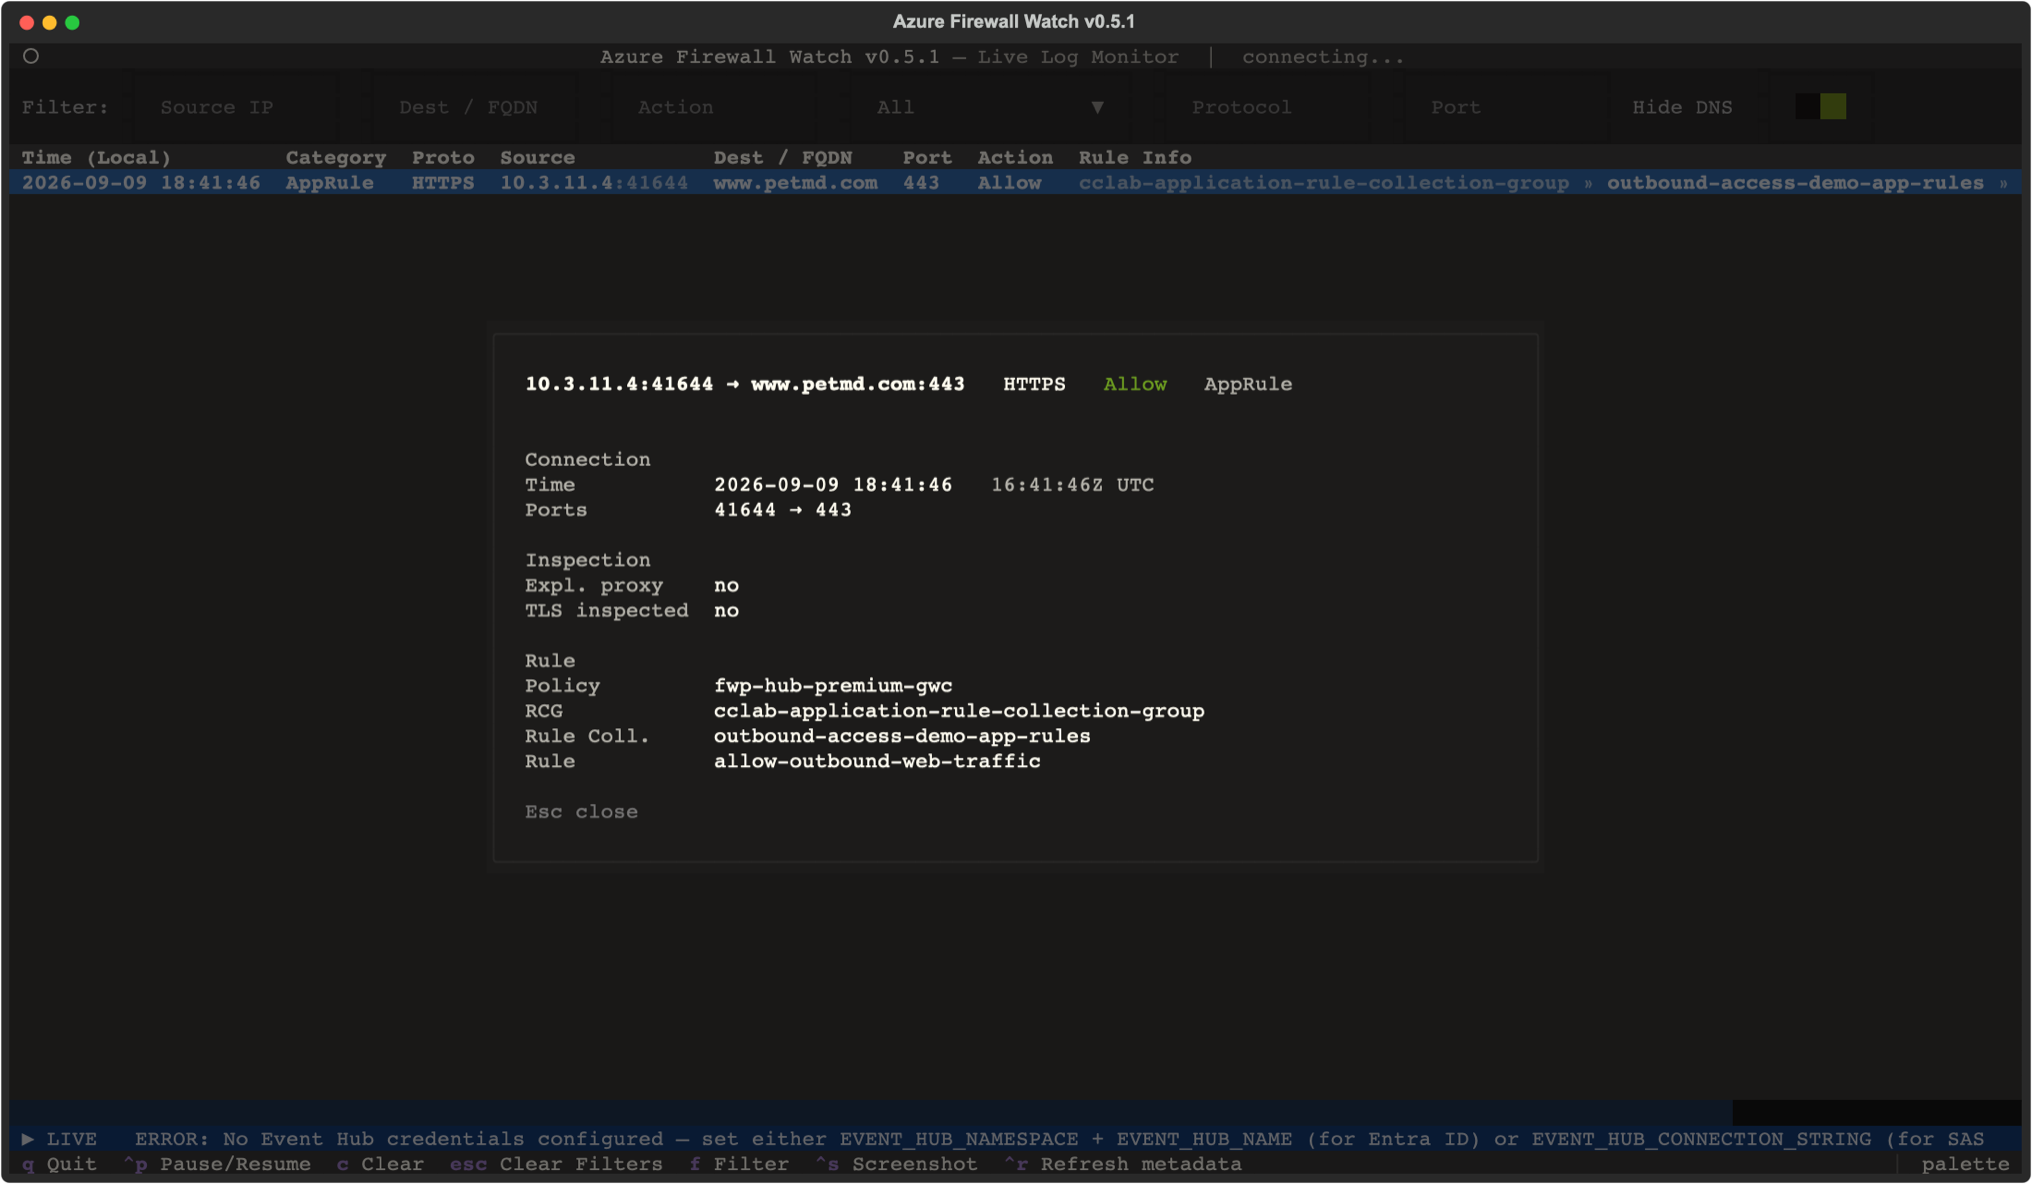
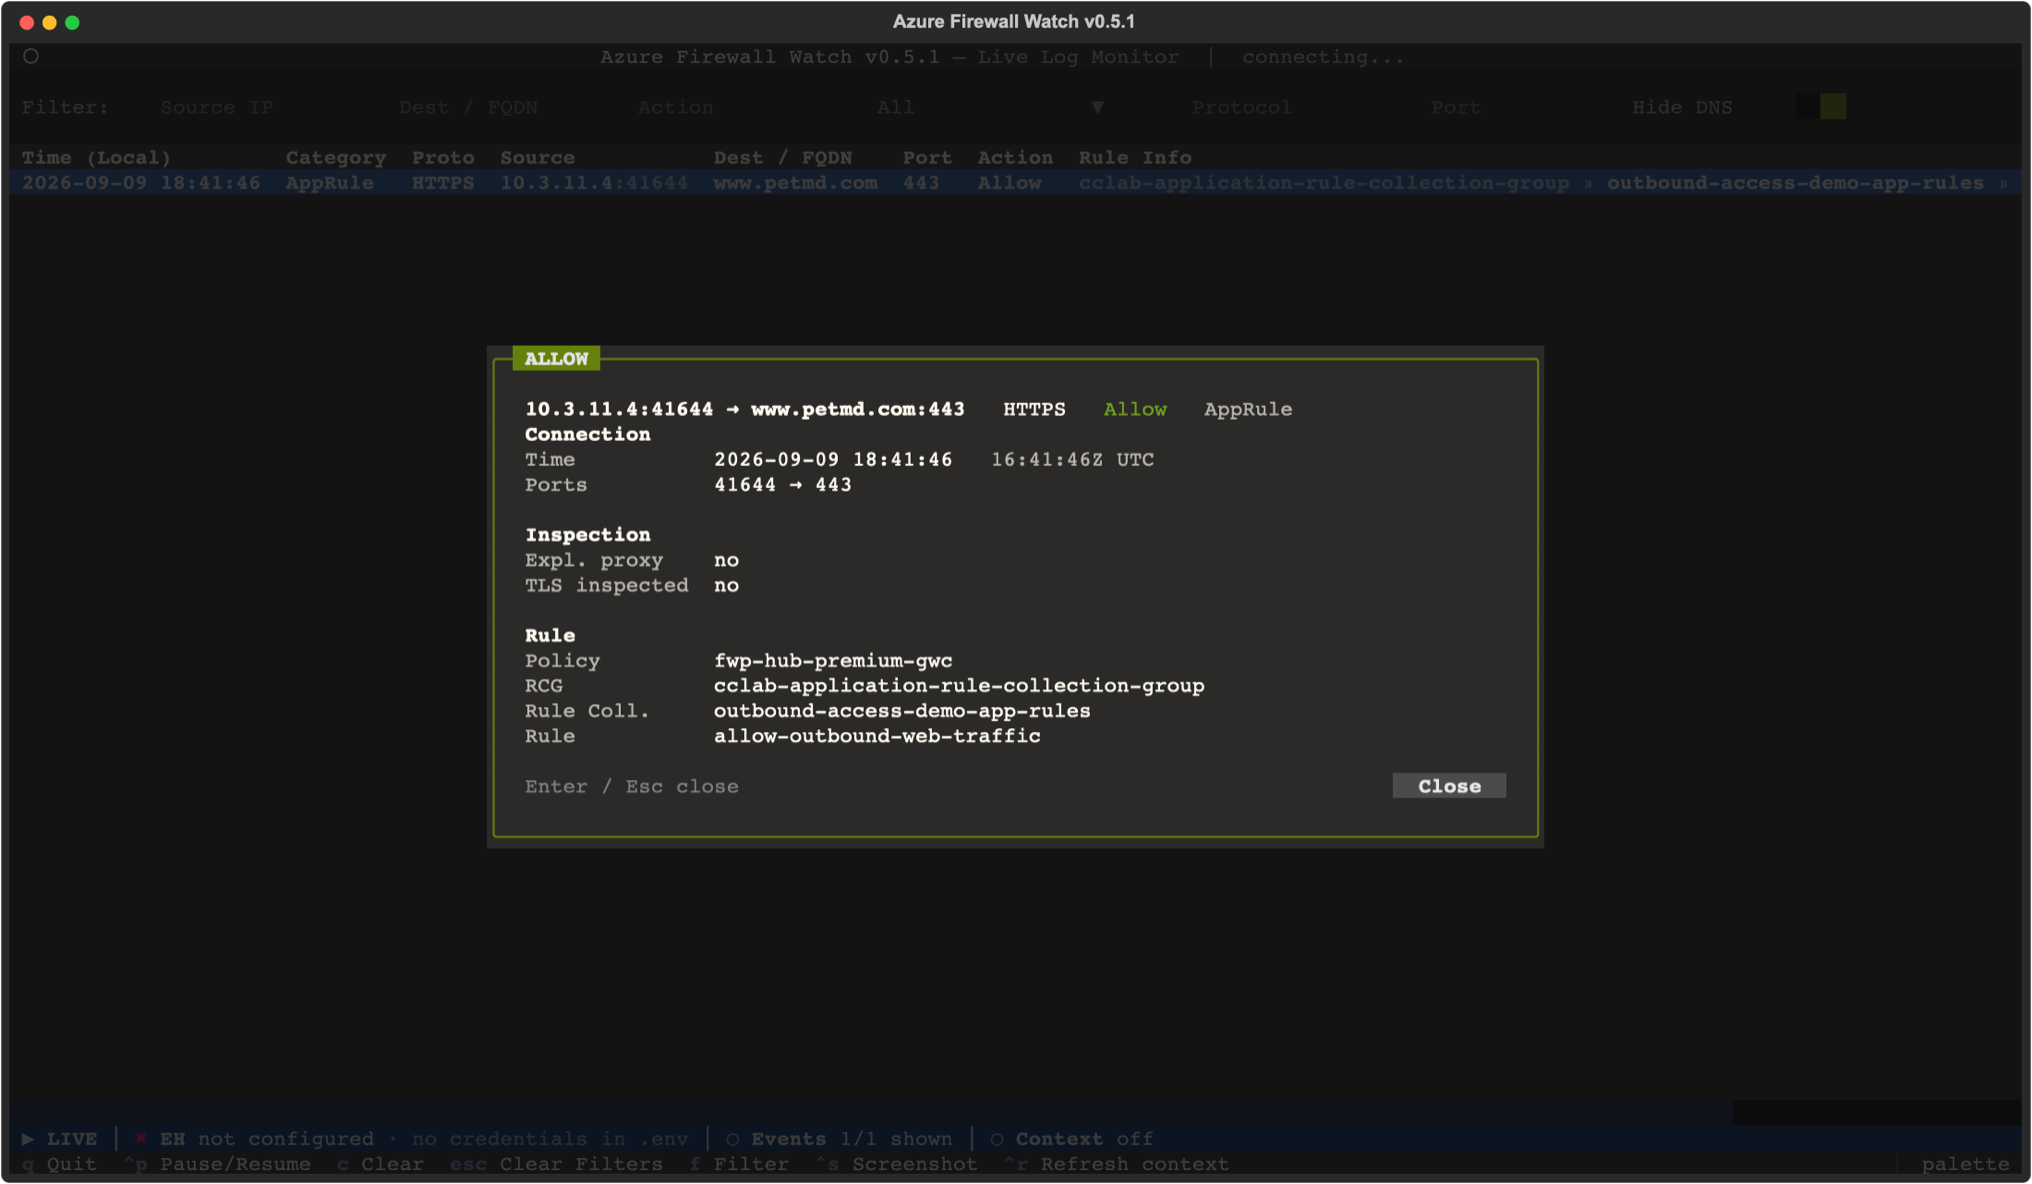
docs(dialog): verdict frame, Close button and Enter in the key tables

diff --git a/CHANGELOG.md b/CHANGELOG.md
@@ -32,7 +32,8 @@ and this project adheres to [Semantic Versioning](https://semver.org/spec/v2.0.0
 - **Hints moved out of the bar.** One-off messages (*Nothing to refresh yet*, *Policy context is off*, a failed refresh, connection error texts) are notifications now, and the last Event Hub error is the bar's tooltip. Before, such a hint overwrote the context segment and stayed there until the next re-fetch. The reason for a missing trace sits in the dialog, see *Fixed*.
 - **One word for the ARM data: policy context.** `Ctrl` + `R` is *Refresh context* (was *Refresh metadata*), the status bar's segment is *Context*, and the dialog's note says *policy context* where it said *firewall metadata*. Same key, same behaviour; *metadata* is gone as a word the user reads.
 - **The row detail dialog was rebuilt around the logged rule.** It used to be two things glued together: every field of the record on the left, and on the right a tree in which every line had the same weight, every collection carried a `nearest miss` suffix, and the rule the firewall actually logged sat somewhere in the middle. Now the header says what happened (connection, protocol and logged action; with policy context a second line with the trace's outcome and the cache age), the fields sit in groups (*Connection*, *Inspection*, *Groups*, *Rule*) with local and UTC time on one line, and the tree opens focused: the logged rule selected and in view, the collections rejected before it folded into `n preceding collections   all ✗`, the ones never reached into `n not evaluated`, and a `?` anywhere inside a fold keeps that fold open. Tree lines are status, priority and name; the criteria moved to a detail under the tree that follows the selection and shows every check with the observed value and the rule's expectation, whole names included. Header values of an inserting rule stay in the Policy tab. The dialog works the same without policy context: then it is the fields, the reason there is no trace, and `Esc close`.
-- **Keys in the dialog.** `Enter` folds and unfolds a node and nothing else; it used to open the Policy tab from an unfolded rule, which made the second press a surprise. `p` opens the selected rule in the Policy tab, `a` toggles between the focused and the full tree, `Shift` + `↑` / `↓` scroll the selection detail under the tree without leaving it, `Esc` and `q` close. The Close button is gone; the footer lists the keys that apply.
+- **Keys in the dialog.** `Enter` folds and unfolds a node and nothing else; it used to open the Policy tab from an unfolded rule, which made the second press a surprise. `p` opens the selected rule in the Policy tab, `a` toggles between the focused and the full tree, `Shift` + `↑` / `↓` scroll the selection detail under the tree without leaving it, `Esc` and `q` close, and so does `Enter` on a row without a trace, where it had nothing else to do. The footer lists the keys that apply and keeps a compact Close button for the mouse; it never takes the focus.
+- **The frame carries the verdict.** The dialog's border is green, red or yellow for the logged allow, deny or dnat, with the action and the rule in its title tab (`ALLOW · allow-web`), so the outcome is read before a single line inside. The header's second line then says where the rule sits (`✓ matched in group » collection`) rather than repeating the name. Fields, tree and selection detail sit in titled frames (*Fields*, *Policy evaluation*, *Selection*); the selection frame keeps one height per trace instead of growing and shrinking with the cursor, and on short terminals the frames fold to their top rule. The log table stays visible behind the dialog, one step further back.
 - **Small terminals.** Below 120 columns the fields and the trace become two tabs inside the dialog (*Fields* / *Policy trace*, `Tab` switches, the trace tab opens first); below 40 rows the selection detail gives its rows to the tree, below 30 it keeps only its name lines. The header's outcome line is measured against the dialog's width: when it would wrap it drops the group and collection, then the cache age, and keeps the rule name. The tree keeps its selected line in view through every layout change, and every pane scrolls on its own. At 80×24 the trace was unusable before and is readable now; the screenshots in the PR show all three sizes in both modes.
 - **The Firewall tab reads as columns.** Every row of the Instance and Policy blocks used to trail its detail three spaces behind the value, so the details started wherever the value happened to end. A state word (`on`, `off`, `Alert`, `default`, `autoscaling`) now sits in a column of its own and every detail starts in the same place; a value too long for that column keeps its line and the detail moves under it. The Networking table puts the private and public addresses first and the configuration name last, since the name is a label and the addresses are what one came for.
 - **Logging as a matrix, with one coverage line.** The block used to list diagnostic settings by name with a count of categories, and a *Not to Event Hub* line below. It is now a matrix of categories against targets (Event Hub, Log Analytics, Storage), the viewer's categories first, with the setting names in a legend, and a single **Event Hub coverage** line for the hub this viewer reads from: green *complete*, or yellow *incomplete* with the missing names. Missing means missing for this firewall: no IDPS log is expected without Premium and IDPS on, no DNS log without the proxy, no fat flow log without the switch, no threat intel log with the mode off. Flow trace depends on a subscription feature registration the viewer does not read, so it is named when absent and never counted.

diff --git a/docs/policy-context.md b/docs/policy-context.md
@@ -92,8 +92,10 @@ MSSQL flows.
 
 The dialog's header says what happened: connection, protocol and the logged
 action on the first line, the trace's outcome and the cache age on the second
-(`✓ Allow by rcg-net » rc-web » allow-web   cached policy · 12 min`). The log
-entry's own fields sit on the left, the trace on the right. Each pass reports
+(`✓ matched in rcg-net » rc-web   cached policy · 12 min`); the frame's title
+tab names the action and the rule (`ALLOW · allow-web`) and the frame takes the
+action's colour. The log entry's own fields sit on the left in a *Fields*
+frame, the trace on the right under *Policy evaluation*. Each pass reports
 its own verdict (`✓ matched`, `✗ no match`, `? no certain match`), and under it
 the rule collection groups with their collections in priority order. Lines are
 status, priority and name only; the collection's own action is the short tag
@@ -156,7 +158,7 @@ checked against real records rather than the documentation.
 | `a`            | The full tree, including the folded collections, and back     |
 | `Shift` + `↑` / `↓` | Scroll the selection detail under the tree                |
 | `Tab`          | On a terminal under 120 columns: switch between *Fields* and *Policy trace* |
-| `Escape` / `q` | Close the dialog                                              |
+| `Escape` / `q` | Close the dialog; the footer's Close button does the same, and without a trace `Enter` closes too |
 
 Below 120 columns the fields and the trace are tabs rather than columns, and
 the trace tab opens first. Below 40 rows the selection detail shrinks so the

diff --git a/docs/using-the-viewer.md b/docs/using-the-viewer.md
@@ -79,7 +79,9 @@ connection, protocol and logged action; below it the record's fields in groups:
 *Connection* (time local and UTC, ports, and what the category adds: flag, rate,
 query, response, threat, signature), *Inspection* (explicit proxy, TLS inspection,
 only when the record carries them) and *Rule* (policy, group, collection, rule).
-`Escape` or `q` closes it.
+The frame's colour and its title tab carry the logged action (`ALLOW · allow-web`
+in green, deny in red, dnat in yellow). `Escape` or `q` closes it, `Enter` too
+when there is no trace, and a Close button in the footer serves the mouse.
 
 The fields adapt to the category, because the raw log means different things
 depending on it:
@@ -99,7 +101,8 @@ beside the fields. The trace is described in
 [Evaluation trace](policy-context.md#evaluation-trace); the keys inside the
 dialog are `Enter` to fold a node, `p` to open the selected rule in the Policy
 tab, `a` to switch between the focused and the full tree, `Shift` + `↑` / `↓`
-to scroll the selection detail under the tree.
+to scroll the selection detail under the tree. Fields, tree and selection
+detail each sit in a titled frame (*Fields*, *Policy evaluation*, *Selection*).
 
 On a terminal narrower than 120 columns the fields and the trace become two
 tabs inside the dialog, *Fields* and *Policy trace*, switched with `Tab`; the
